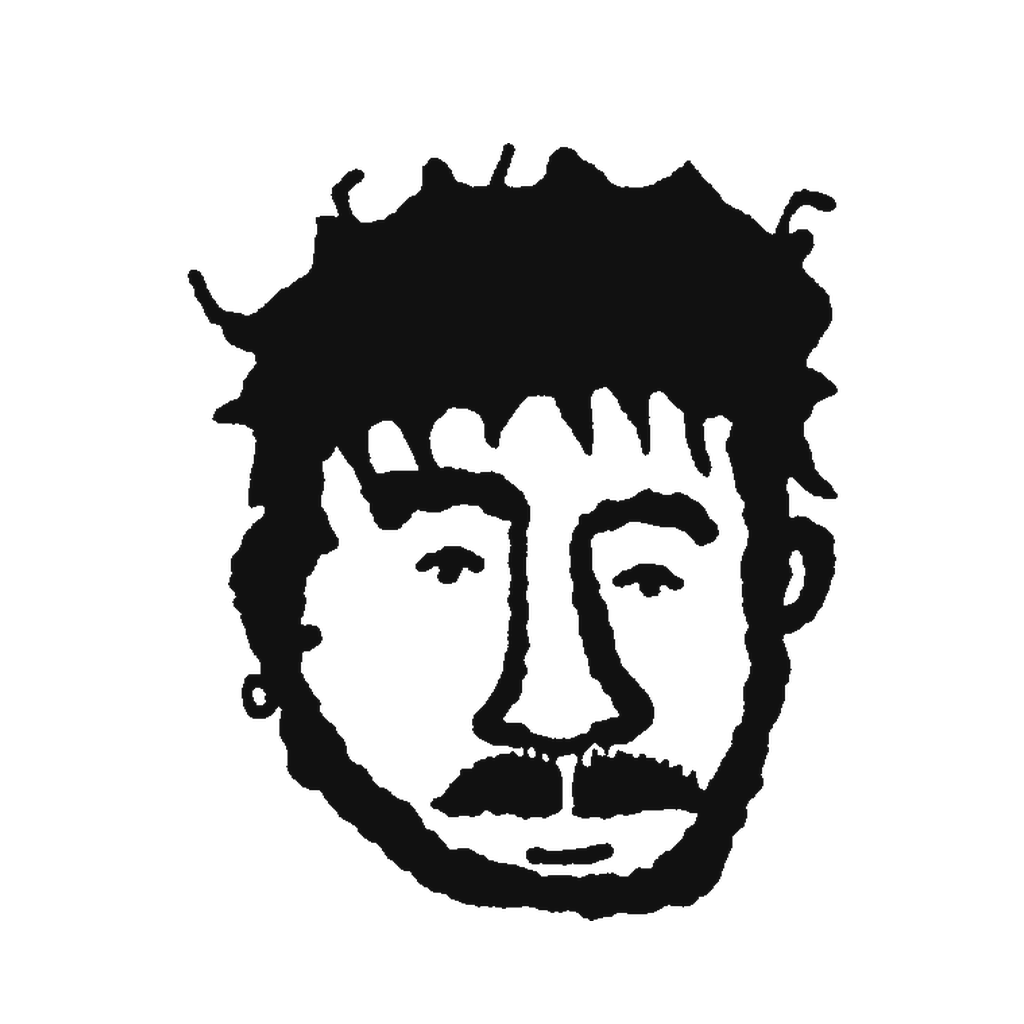
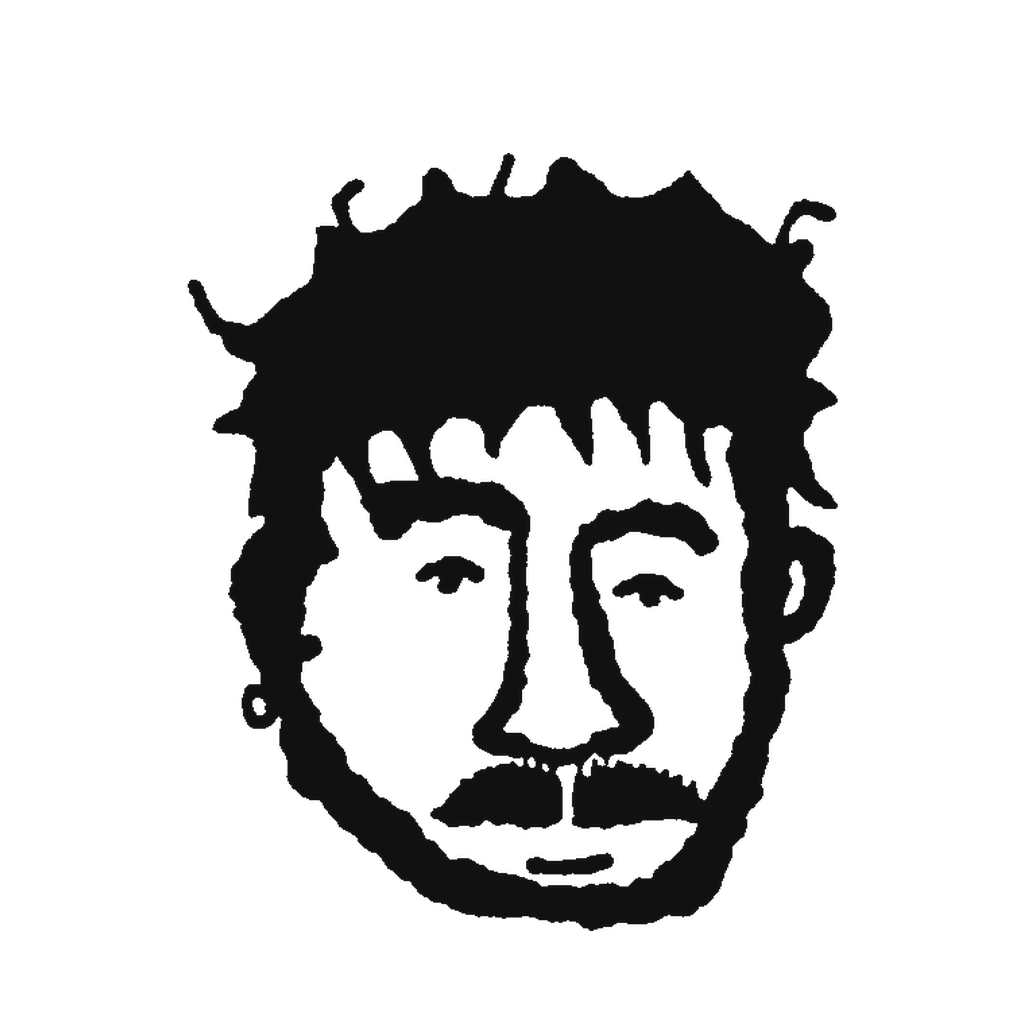
Icona copertina bianca con punto interrogativo
Claude-Session: https://claude.ai/code/session_01Xai83E1Ax4kpX5EsYMDAnd

diff --git a/tools/genera_icona_copertina.py b/tools/genera_icona_copertina.py
@@ -88,7 +88,7 @@ def personaggio():
     return inchiostro, interno, box
 
 
-def componi(inchiostro, interno, box, sfondo, G=1024, margine=0.12, viso=CARTA):
+def componi(inchiostro, interno, box, sfondo, G=1024, margine=0.12, viso=CARTA, dx=0.0):
     x0, y0, x1, y1 = box
     lato = max(x1 - x0, y1 - y0)
     cx, cy = (x0 + x1) / 2, (y0 + y1) / 2
@@ -100,7 +100,7 @@ def componi(inchiostro, interno, box, sfondo, G=1024, margine=0.12, viso=CARTA):
         return img.resize((dim, dim), Image.LANCZOS)
 
     tela = Image.new("RGB", (G, G), sfondo)
-    off = ((G - dim) // 2, (G - dim) // 2 + int(G * 0.02))
+    off = ((G - dim) // 2 + int(G * dx), (G - dim) // 2 + int(G * 0.03))
     tela.paste(viso, off, mappa(interno))
     tela.paste(INCHIOSTRO, off, mappa(inchiostro))
     return tela
@@ -117,9 +117,12 @@ if __name__ == "__main__":
     salva(componi(ink, dentro, box, GIALLO), "copertina_giallo")
     salva(componi(ink, dentro, box, CARTA), "copertina_carta")
     salva(componi(ink, dentro, box, (255, 255, 255), viso=(255, 255, 255)), "copertina_bianco")
-    im = componi(ink, dentro, box, GIALLO, margine=0.16)
-    m = Image.new("L", im.size, 0)
-    ImageDraw.Draw(m).text((im.width * 0.8, im.height * 0.2), "?", font=font(260), fill=255, anchor="mm")
-    im.paste(INCHIOSTRO, mask=pennello(m, ampiezza=6, seed=3))
-    salva(im, "copertina_domanda")
+    for nome, sfondo, viso in (("copertina_domanda", GIALLO, CARTA),
+                               ("copertina_bianco_domanda", (255, 255, 255), (255, 255, 255))):
+        # personaggio un po' più piccolo e spostato a sinistra, "?" in alto a destra senza toccare i capelli
+        im = componi(ink, dentro, box, sfondo, margine=0.17, viso=viso, dx=-0.05)
+        m = Image.new("L", im.size, 0)
+        ImageDraw.Draw(m).text((im.width * 0.8, im.height * 0.2), "?", font=font(240), fill=255, anchor="mm")
+        im.paste(INCHIOSTRO, mask=pennello(m, ampiezza=6, seed=3))
+        salva(im, nome)
     print("icone ok")
